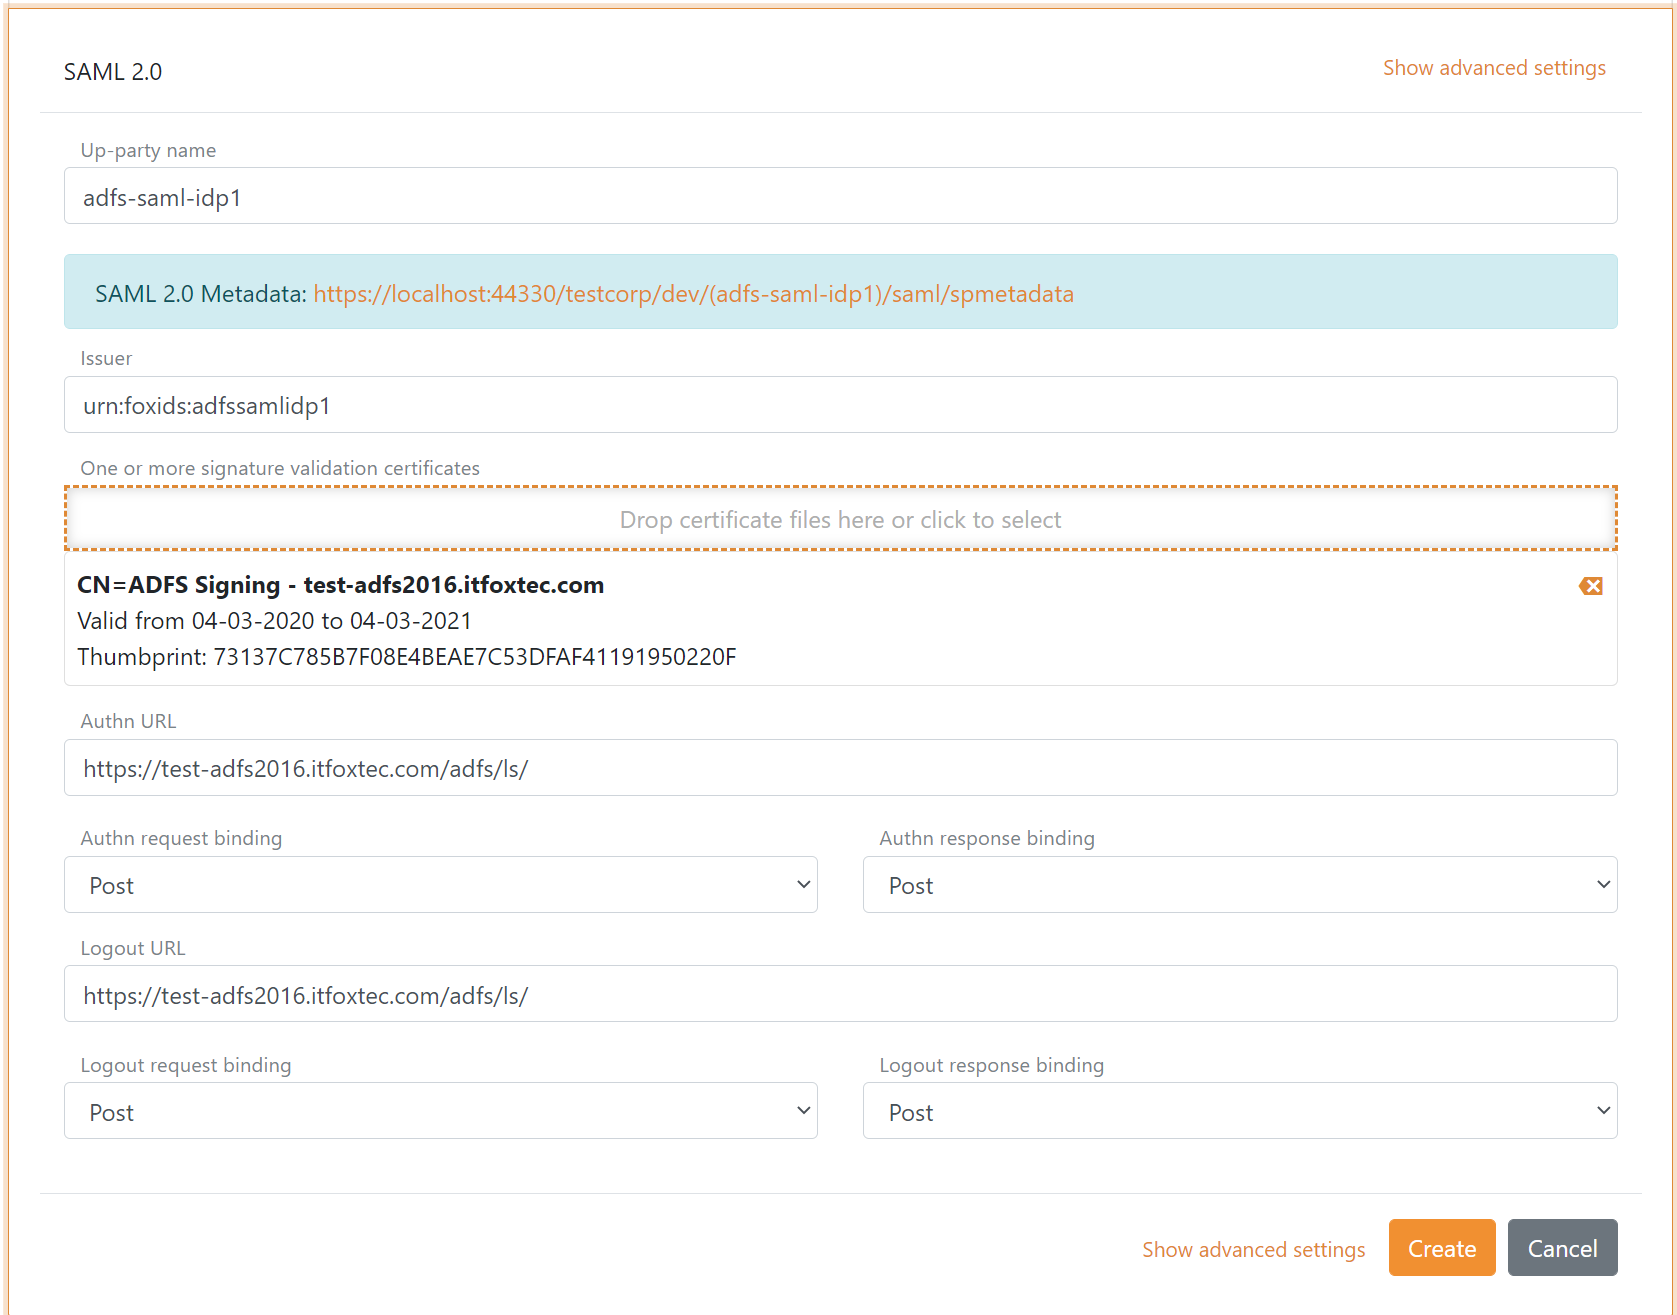
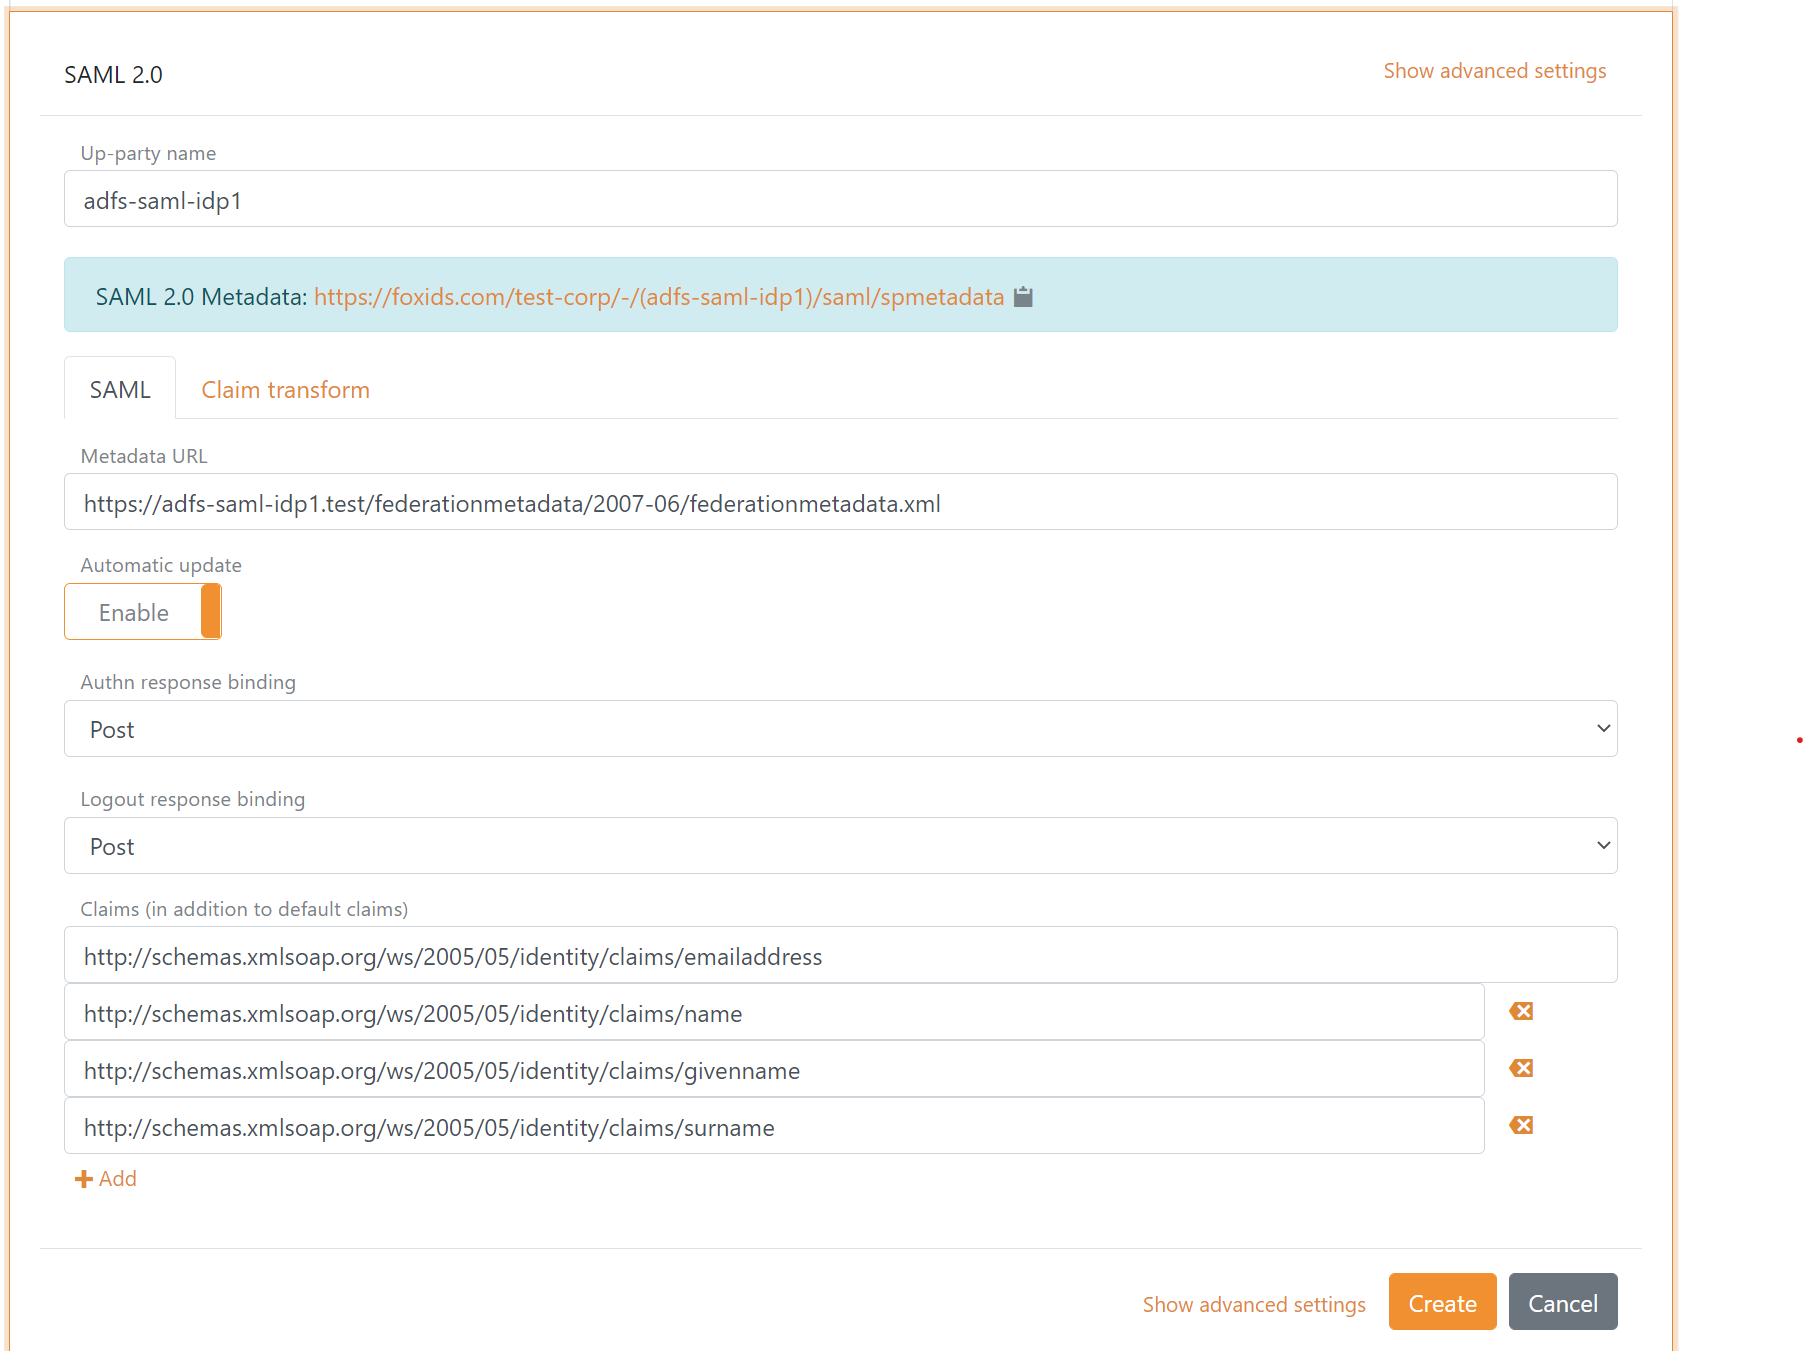
docs, SAML 2.0 AD FS

diff --git a/docs/up-party-howto-saml-2.0-adfs.md b/docs/up-party-howto-saml-2.0-adfs.md
@@ -1,36 +1,49 @@
 # Up-party - Connect AD SF with SAML 2.0
 
-FoxIDs can be connected to AD FS with a [up-party SAML 2.0 Identity Provider (IdP)](up-party-saml-2.0.md). Where AD FS is a SAML 2.0 Identity Provider (IdP) and FoxIDs is acting as an SAML 2.0 Relying Party (RP).
+FoxIDs can be connected to AD FS with a [up-party SAML 2.0](up-party-saml-2.0.md). Where AD FS is a SAML 2.0 Identity Provider (IdP) and FoxIDs is acting as an SAML 2.0 Relying Party (RP).
  
-Configuring AD FS as IdP using the following steps.
+## Configuring AD FS as Identity Provider (IdP)
 
-## 1) AD FS as a SAML 2.0 IdP on FoxIDs
-First the AD FS SAML 2.0 IdP is configured in a FoxIDs track as an SAML 2.0 up-party through [FoxIDs Control](control.md). The IdP up-party can either be configured by adding the SAML 2.0 details or using the AD FS metadata `https://...adfs-domain.../federationmetadata/2007-06/federationmetadata.xml` *(future support)*.
+**1 - Start by creating an up-party SAML 2.0 in [FoxIDs Control Client](control.md#foxids-control-client)**
 
-**Recommended SAML 2.0 bindings**
+The up-party SAML 2.0 can either be configured by using the AD FS metadata `https://...adfs-domain.../federationmetadata/2007-06/federationmetadata.xml` or by manually adding the SAML 2.0 details.
+
+Recommended SAML 2.0 bindings:
 - Authn request and response binding: Post
 - Logout request and response binding: Post
 
-Remark; The authn request redirect binding can result in a long query string which can cause problems I some devices.
+Remark; The authn request redirect binding can result in a long query string which can cause problems I some devices. Therefore post binding is preferable.
+
+The following screen shot show the basic FoxIDs up-party SAML 2.0 configuration using AD FS metadata in [FoxIDs Control Client](control.md#foxids-control-client).
+
+> The AD FS metadata endpoint need to be accessible online to do the SAML 2.0 configuration with AD FS metadata. If not, you need to do the configuration manually.
 
 ![Configure SAML 2.0 AD FS up-party](images/configure-saml-adfs-up-party.png)
 
-## 2) FoxIDs as a SAML 2.0 RP on AD FS
-After the AD FS SAML 2.0 up-party has been configured in a FoxIDs track a SAML 2.0 RP metadata is exposed, which can be used to configure FoxIDs as an RP on AD FS.
+> More configuration options become available by clicking `Show advanced settings`.
 
-> FoxIDs SAML 2.0 RP metadata `https://foxids.com/tenant-x/track-y/(adfs-saml-idp1)/saml/spmetadata`  
-> for 'tenant-x' and 'track-y' with the up-party name 'adfs-saml-idp1'
+**2 - Then go to the AD FS and create the Relying Party (RP)**
 
-Alternatively, FoxIDs can be configured manually as an RP on the AD FS with the following properties:
+In this part of the configuration you need to use the up-party SAML 2.0 metadata. It is possible to call a fictive up-party SAML 2.0 metadata in FoxIDs and thereby if preferred performing step 2 as the first step.
+
+> FoxIDs up-party SAML 2.0 metadata `https://foxids.com/tenant-x/track-y/(adfs-saml-idp1)/saml/spmetadata`  
+> for `tenant-x` and `track-y` with the up-party name `adfs-saml-idp1`.
+
+Configure the Relying Party (RP) on AD FS using the up-party SAML 2.0 metadata.
+
+Alternatively, the Relying Party (RP) can be configured manually on the AD FS with the following properties:
 
 - The public FoxIDs track ('tenant-x' and 'track-y') certificate
 - Hash algorithm, default SHA-256
-- The FoxIDs track identifier `https://foxids.com/tenant-x/track-y/` or another configured identifier
+- The FoxIDs track identifier `https://foxids.com/tenant-x/track-y/` or another identifier if configured
 - Assertion consumer service endpoint `https://foxids.com/tenant-x/track-y/(adfs-saml-idp1)/saml/acs`
 - Single logout (logout) service endpoint `https://foxids.com/tenant-x/track-y/(adfs-saml-idp1)/saml/singlelogout/`
 
-## 3) AD FS issuances claims
-It is recommended to add the NameID claim `http://schemas.xmlsoap.org/ws/2005/05/identity/claims/nameidentifier` (in AD FS called the NameIdentifier) to enable the SessionIndex. Without the NamID claim AD FS do not add the SessionIndex to the SAML token and it will therefore not be possible to do logout or single logout.
+**3 - Then go to the AD FS Relying Party (RP) issuances claims configuration**
+
+It is recommended to add the NameID claim `http://schemas.xmlsoap.org/ws/2005/05/identity/claims/nameidentifier` (in AD FS called the NameIdentifier) to enable the SessionIndex. 
+
+> Without the NamID claim AD FS do not add the SessionIndex to the SAML token and it will therefore not be possible to do logout or single logout.
 
 FoxIDs require AD FS to issue the users identity in either the NameID or at least one of the following claims:
 
@@ -38,4 +51,6 @@ FoxIDs require AD FS to issue the users identity in either the NameID or at leas
 - UPN `http://schemas.xmlsoap.org/ws/2005/05/identity/claims/upn`
 - Email `http://schemas.xmlsoap.org/ws/2005/05/identity/claims/emailaddress`
 - Name `http://schemas.xmlsoap.org/ws/2005/05/identity/claims/name`
+
+Other claims is optional and can be received and transformed in FoxIDs.
 

diff --git a/docs/down-party-howto-saml-2.0-adfs.md b/docs/down-party-howto-saml-2.0-adfs.md
@@ -1,29 +1,41 @@
 # Down-party - Connect AD SF with SAML 2.0
 
-FoxIDs can be connected to AD FS with a [down-party SAML 2.0 Relying Party (RP)](down-party-saml-2.0.md). Where AD FS is a SAML 2.0 Relying Party (RP) and FoxIDs is acting as an SAML 2.0 Identity Provider (IdP).
+FoxIDs can be connected to AD FS with a [down-party SAML 2.0](down-party-saml-2.0.md). Where AD FS is a SAML 2.0 Relying Party (RP) and FoxIDs is acting as an SAML 2.0 Identity Provider (IdP).
 
-An AD FS can be connected to FoxIDs with SAML 2.0 acting as an RP where FoxIDs is acting as an IdP.
-
-This example requests login through the `login` up-party, which can be changed depending on the scenario.
+This example do login through the up-party `login`, which can be changed depending on the scenario.
  
-Configuring AD FS as RP using the following steps.
+## Configuring AD FS as Relying Party (RP)
 
-## 1) AD FS as a SAML 2.0 RP on FoxIDs
-First the AD FS SAML 2.0 RP is configured in a FoxIDs track as an SAML 2.0 down-party through [FoxIDs Control](control.md). The RP down-party can either be configured by adding the SAML 2.0 details or using the AD FS metadata `https://...adfs-domain.../federationmetadata/2007-06/federationmetadata.xml` *(future support)*.
+**1 - Start by creating an down-party SAML 2.0 in [FoxIDs Control Client](control.md#foxids-control-client)**
 
-## 2) FoxIDs as a SAML 2.0 IdP on AD FS
-After configuring the AD FS SAML 2.0 down-party in a FoxIDs track a SAML 2.0 IdP metadata is exposed, which can be used to configure FoxIDs as a IdP on AD FS.
+The down-party SAML 2.0 can either be configured by manually adding the SAML 2.0 details or using the AD FS metadata `https://...adfs-domain.../federationmetadata/2007-06/federationmetadata.xml` *(future support)*.
 
-> FoxIDs SAML 2.0 IdP metadata `https://foxids.com/tenant-x/track-y/adfs-saml-rp1/saml/idpmetadata`  
-> for 'tenant-x' and 'track-y' with the down-party name 'adfs-saml-rp1'
+**2 - Then go to the AD FS and create the Identity Provider (IdP)**
 
-Alternatively, FoxIDs can be configured manually as an IdP on the AD FS with the following properties:
+> An Identity Provider (IdP) is called a Claims Provider in AD FS.
+
+In this part of the configuration you need to use the down-party SAML 2.0 metadata. It is possible to call a fictive down-party SAML 2.0 metadata in FoxIDs and thereby if preferred performing step 2 as the first step.
+
+> FoxIDs down-party SAML 2.0 metadata `https://foxids.com/tenant-x/track-y/adfs-saml-rp1/saml/idpmetadata`  
+> for 'tenant-x' and 'track-y' with the down-party name 'adfs-saml-rp1'.
+
+> A down-party application can possibly support login through multiple [up-parties](parties.md#up-party) by adding the up-party name to the URL.  
+> An up-party name e.g. `login` can possible be added to the metadata URL like this `https://foxids.com/tenant-x/track-y/adfs-saml-rp1(login)/saml/idpmetadata`
+
+Configure the Identity Provider (IdP) on AD FS using the down-party SAML 2.0 metadata.
+
+Alternatively, the Identity Provider (IdP) can be configured manually on the AD FS with the following properties:
 
 - The public FoxIDs track ('tenant-x' and 'track-y') certificate
 - Hash algorithm, default SHA-256
-- The FoxIDs track identifier `https://foxids.com/tenant-x/track-y/` or another configured identifier
+- The FoxIDs track identifier `https://foxids.com/tenant-x/track-y/` or another identifier if configured
 - Single sign-on service endpoint `https://foxids.com/tenant-x/track-y/adfs-saml-rp1(login)/saml/authn`
 - Single logout service endpoint `https://foxids.com/tenant-x/track-y/adfs-saml-rp1(login)/saml/logout`
 
-## 3) FoxIDs issuances claims
+> An up-party name e.g. `login` can possible be added to the single sign-on and single logout service endpoint.
+
+**3 - Then go to the AD FS Identity Provider (IdP) issuances claims configuration**
+
 FoxIDs default issue the user's identity in the NameID claim with format persistent.
+
+Other claims can optional be transformed and issued by FoxIDs. 
